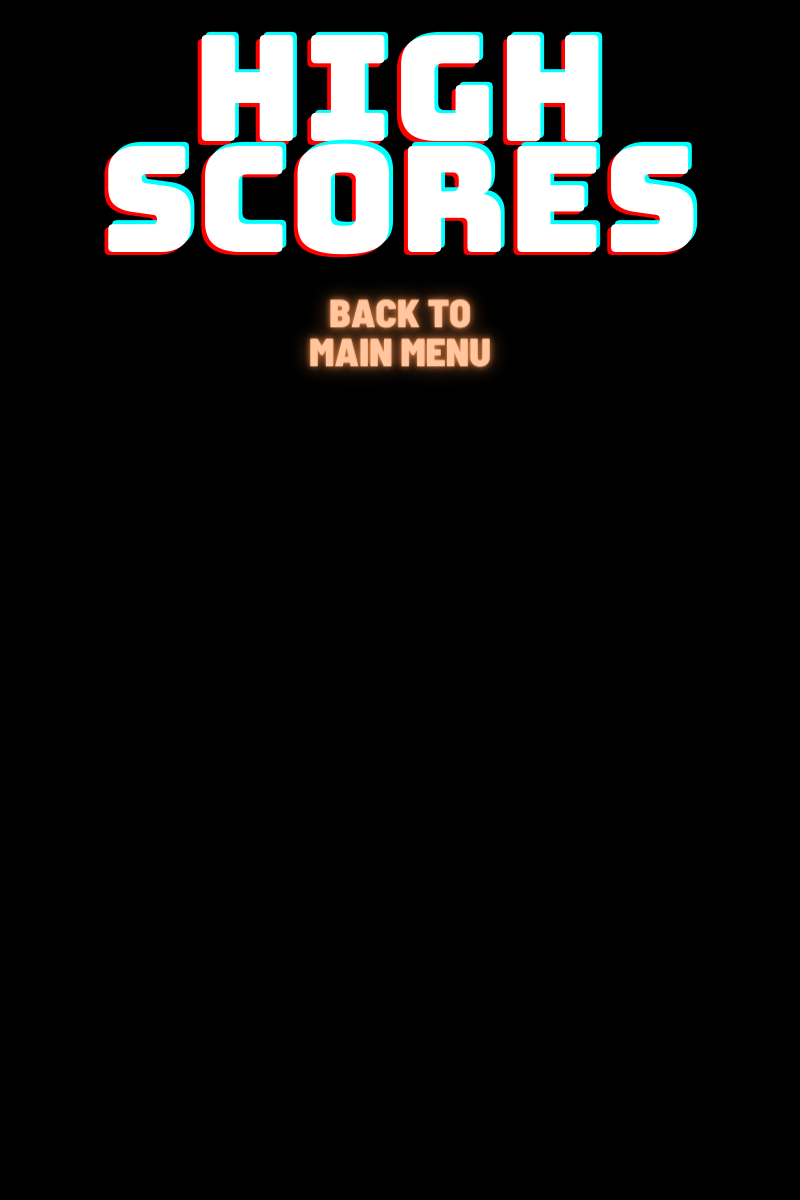
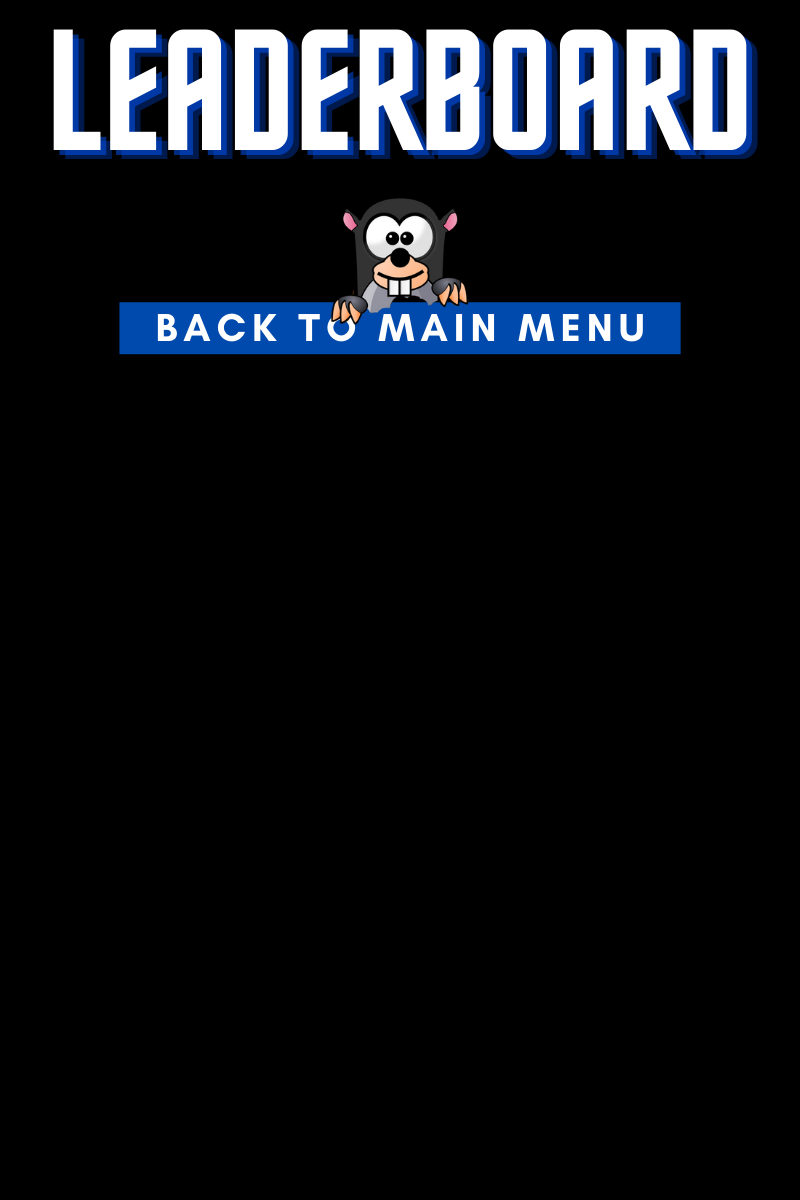
Change game screen images

Changed region(s): [[0.0625, 0.0, 0.9688, 0.3083]]

diff --git a/public/scripts/p1Scripts/p1WhacAMole.js b/public/scripts/p1Scripts/p1WhacAMole.js
@@ -27,7 +27,7 @@ let randomMole; // Initialized when creating new holes and then updates everytim
 let molePicked = false; // The purpose of this is to ensure that the mole is set only once while it's still active.
 let whatToShow = 0; // Parameter for Mole.show(). 0 = show a mole, 1 = show a bomb.
 
-let screen = 0; // Screen 0 = Start screen, 1 = start game, 2 = game over, 3 = tutorial Mode, 4 = players' high scores 
+let screen = 0; // Screen 0 = Start screen, 1 = start game, 2 = game over, 3 = tutorial Mode, 4 = players' high scores
 
 let tutorialMode = false;
 let messageTime = 0;
@@ -309,12 +309,11 @@ function createHoles() {
 
 // Display the player's current score.
 function displayScore() {
-    let fontSize = 70;
     push();
-    textSize(fontSize);
+    textSize(70);
     textStyle(BOLD);
     fill(255);
-    text(score, 10, 60);
+    text(score, 10, 65);
     pop();
 }
 
@@ -345,7 +344,7 @@ function displayTime() {
     let timeBar = map(startTime, 0, gameTimeLimit, 0, width);
 
     // Change the bar colour depending on how much time is left.
-    startTime <= 0.25 * gameTimeLimit ? stroke(255, 0, 0) : stroke(0, 255, 0);
+    startTime <= 0.25 * gameTimeLimit ? stroke(255, 0, 0) : stroke(0, 74, 173);
 
     line(0, 0, timeBar, 0);
     pop();
@@ -391,32 +390,42 @@ function startScreen() {
         "topRightY": 0
     }
 
-    startBtn.bottomRightX = width / 2 + width / 2 * 0.13;
-    startBtn.bottomRightY = height / 2 - height / 2 * 0.13;
-    startBtn.topRightX = width / 2 + width / 2 * 0.13;
-    startBtn.topRightY = height / 2 - height / 2 * 0.20;
-    startBtn.bottomLeftX = width / 2 - width / 2 * 0.14;
-    startBtn.bottomLeftY = height / 2 - height / 2 * 0.13;
-    startBtn.topLeftX = width / 2 - width / 2 * 0.14;
-    startBtn.topLeftY = height / 2 - height / 2 * 0.20;
+    startBtn.bottomRightX = width * 0.8;
+    startBtn.bottomRightY = height * 0.663;
+    startBtn.topRightX = width * 0.8;
+    startBtn.topRightY = height * 0.622;
+    startBtn.bottomLeftX = width * 0.2;
+    startBtn.bottomLeftY = height * 0.663;
+    startBtn.topLeftX = width * 0.2;
+    startBtn.topLeftY = height * 0.622;
 
+    instructionsBtn.bottomRightX = width * 0.8;
+    instructionsBtn.bottomRightY = height * 0.74;
+    instructionsBtn.topRightX = width * 0.8;
+    instructionsBtn.topRightY = height * 0.697;
+    instructionsBtn.bottomLeftX = width * 0.2;
+    instructionsBtn.bottomLeftY = height * 0.74;
+    instructionsBtn.topLeftX = width * 0.2;
+    instructionsBtn.topLeftY = height * 0.697;
+
+    highScoreBtn.bottomRightX = width * 0.8;
+    highScoreBtn.bottomRightY = height * 0.814;
+    highScoreBtn.topRightX = width * 0.8;
+    highScoreBtn.topRightY = height * 0.77;
+    highScoreBtn.bottomLeftX = width * 0.2;
+    highScoreBtn.bottomLeftY = height * 0.814;
+    highScoreBtn.topLeftX = width * 0.2;
+    highScoreBtn.topLeftY = height * 0.77;
+
+    //push();
     //fill(255, 0, 0);
     //rect(startBtn.bottomRightX, startBtn.bottomRightY, 10, 10);
     //fill(255, 255, 0);
     //rect(startBtn.topRightX, startBtn.topRightY, 10, 10);
     //fill(255, 0, 255);
-    //rect(startBtn.bottomLeftX, startBtn.bottomLeftY, 10, 10);
-    //fill(0, 0, 255);
     //rect(startBtn.topLeftX, startBtn.topLeftY, 10, 10);
-
-    instructionsBtn.bottomRightX = width / 2 + width / 2 * 0.30;
-    instructionsBtn.bottomRightY = height / 2;
-    instructionsBtn.topRightX = width / 2 + width / 2 * 0.30;
-    instructionsBtn.topRightY = height / 2 - height / 2 * 0.07;
-    instructionsBtn.bottomLeftX = width / 2 - width / 2 * 0.31;
-    instructionsBtn.bottomLeftY = height / 2;
-    instructionsBtn.topLeftX = width / 2 - width / 2 * 0.31;
-    instructionsBtn.topLeftY = height / 2 - height / 2 * 0.07;
+    //fill(0, 0, 255);
+    //rect(startBtn.bottomLeftX, startBtn.bottomLeftY, 10, 10);
 
     //fill(255, 0, 0);
     //rect(instructionsBtn.bottomRightX, instructionsBtn.bottomRightY, 10, 10);
@@ -427,15 +436,6 @@ function startScreen() {
     //fill(0, 0, 255);
     //rect(instructionsBtn.bottomLeftX, instructionsBtn.bottomLeftY, 10, 10);
 
-    highScoreBtn.bottomRightX = width / 2 + width / 2 * 0.27;
-    highScoreBtn.bottomRightY = height / 2 + height / 2 * 0.13;
-    highScoreBtn.topRightX = width / 2 + width / 2 * 0.27;
-    highScoreBtn.topRightY = height / 2 + height / 2 * 0.08;
-    highScoreBtn.bottomLeftX = width / 2 - width / 2 * 0.31;
-    highScoreBtn.bottomLeftY = height / 2 + height / 2 * 0.13;
-    highScoreBtn.topLeftX = width / 2 - width / 2 * 0.31;
-    highScoreBtn.topLeftY = height / 2 + height / 2 * 0.08;
-
     //fill(255, 0, 0);
     //rect(highScoreBtn.bottomRightX, highScoreBtn.bottomRightY, 10, 10);
     //fill(255, 255, 0);
@@ -444,7 +444,7 @@ function startScreen() {
     //rect(highScoreBtn.topLeftX, highScoreBtn.topLeftY, 10, 10);
     //fill(0, 0, 255);
     //rect(highScoreBtn.bottomLeftX, highScoreBtn.bottomLeftY, 10, 10);
-
+    //pop();
 
     // If the start button is clicked.
     if (screen == 0 && mouseIsPressed && mouseX >= startBtn.topLeftX && mouseX <= startBtn.topRightX
@@ -547,14 +547,14 @@ function gameOver() {
         "topRightY": 0
     }
 
-    backToMenuBtn.bottomRightX = width / 2 + width / 2 * 0.23;
-    backToMenuBtn.bottomRightY = height / 2 - height / 2 * 0.4;
-    backToMenuBtn.topRightX = width / 2 + width / 2 * 0.23;
-    backToMenuBtn.topRightY = height / 2 - height / 2 * 0.5;
-    backToMenuBtn.topLeftX = width / 2 - width / 2 * 0.24;
-    backToMenuBtn.topLeftY = height / 2 - height / 2 * 0.5;
-    backToMenuBtn.bottomLeftX = width / 2 - width / 2 * 0.24;
-    backToMenuBtn.bottomLeftY = height / 2 - height / 2 * 0.4;
+    backToMenuBtn.bottomRightX = width * 0.850
+    backToMenuBtn.bottomRightY = height * 0.295;
+    backToMenuBtn.topRightX = width * 0.850
+    backToMenuBtn.topRightY = height * 0.252;
+    backToMenuBtn.topLeftX = width * 0.15
+    backToMenuBtn.topLeftY = height * 0.252;
+    backToMenuBtn.bottomLeftX = width * 0.15
+    backToMenuBtn.bottomLeftY = height * 0.295;
 
     //fill(255, 0, 0);
     //rect(backToMenuBtn.bottomRightX, backToMenuBtn.bottomRightY, 10, 10);
@@ -607,14 +607,14 @@ function highScores() {
         "topRightY": 0
     }
 
-    backToMenuBtn.bottomRightX = width / 2 + width / 2 * 0.23;
-    backToMenuBtn.bottomRightY = height / 2 - height / 2 * 0.4;
-    backToMenuBtn.topRightX = width / 2 + width / 2 * 0.23;
-    backToMenuBtn.topRightY = height / 2 - height / 2 * 0.5;
-    backToMenuBtn.topLeftX = width / 2 - width / 2 * 0.24;
-    backToMenuBtn.topLeftY = height / 2 - height / 2 * 0.5;
-    backToMenuBtn.bottomLeftX = width / 2 - width / 2 * 0.24;
-    backToMenuBtn.bottomLeftY = height / 2 - height / 2 * 0.4;
+    backToMenuBtn.bottomRightX = width * 0.850
+    backToMenuBtn.bottomRightY = height * 0.295;
+    backToMenuBtn.topRightX = width * 0.850
+    backToMenuBtn.topRightY = height * 0.252;
+    backToMenuBtn.topLeftX = width * 0.15
+    backToMenuBtn.topLeftY = height * 0.252;
+    backToMenuBtn.bottomLeftX = width * 0.15
+    backToMenuBtn.bottomLeftY = height * 0.295;
 
     //fill(255, 0, 0);
     //rect(backToMenuBtn.bottomRightX, backToMenuBtn.bottomRightY, 10, 10);
